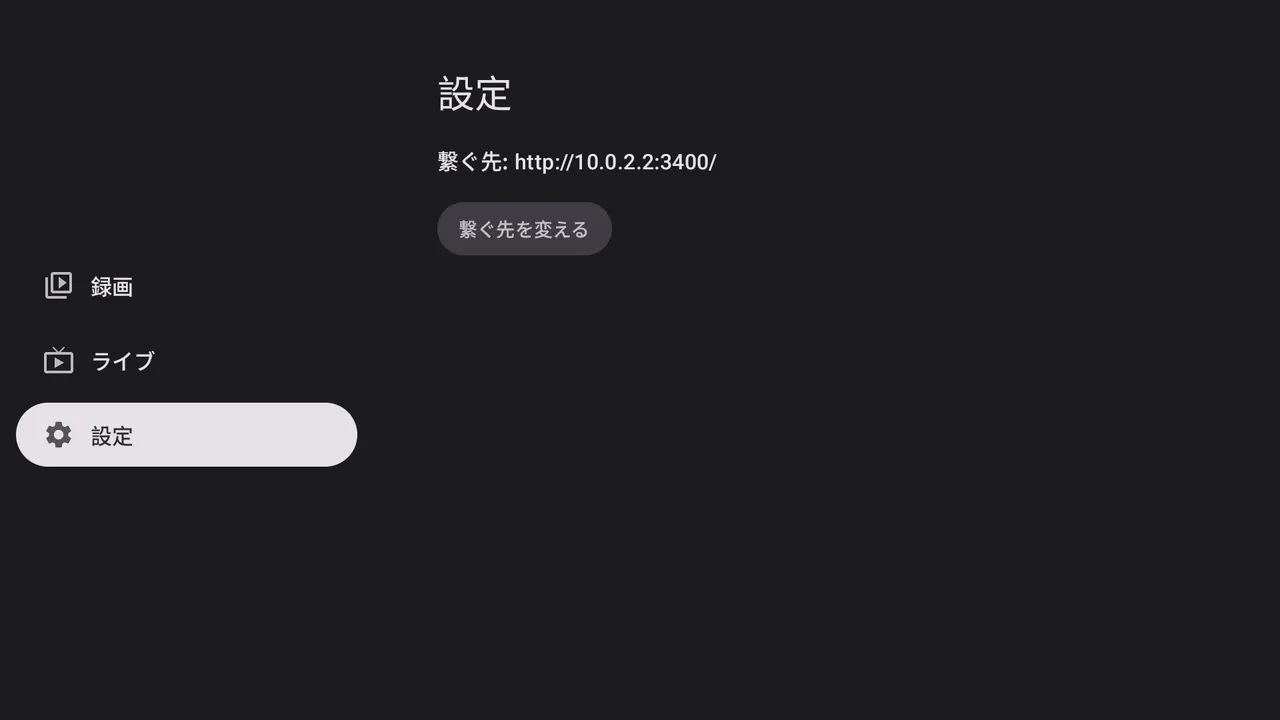
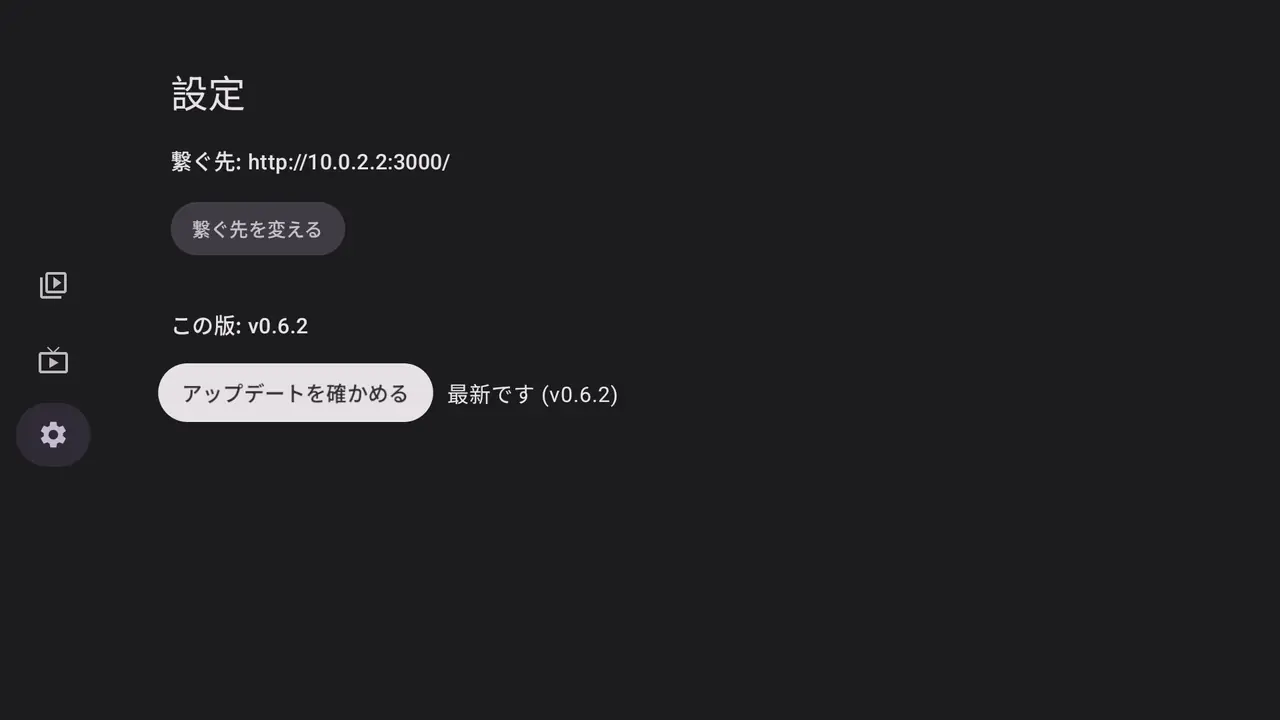
docs: 録画の一覧・詳しく・再生・終わり・追っかけ・設定の絵を今の画面で撮り直す
Claude-Session: https://claude.ai/code/session_01TG5bWNd7UBYqDbKKDsecbS

diff --git a/README.md b/README.md
@@ -9,15 +9,15 @@ Jetpack Compose for TV で書いています。
 
 | 録画 (一番下の古いものから) | **録画の詳しく** (長押し) |
 | --- | --- |
-| <img src="docs/images/recordings.webp" alt="録画の一覧。放送日ごとの見出しと、ポスター・番組名・局・放送日時・長さ・形の札のカード。途中まで観たものはポスターの下に観た割合の帯" width="420"> | <img src="docs/images/detail.webp" alt="録画の詳しく。ポスター、続きから再生と削除のボタン、局・放送日時・長さ・形、番組の説明と出演者" width="420"> |
+| <img src="docs/images/recordings.webp" alt="録画の一覧。放送日ごとの見出しと、ポスター・番組名・局・放送日時・長さ・形の札のカード。録っている最中のものは「録画中」、焼いている最中のものは「エンコード中 42%」の札。途中まで観たものはポスターの下に観た割合の帯" width="420"> | <img src="docs/images/detail.webp" alt="録画の詳しく。ポスター、続きから再生と削除のボタン、局・放送日時・長さ・形、番組の説明と出演者" width="420"> |
 | **録画の再生** (下キーでシークバーと操作の列) | **最後まで観たとき** |
-| <img src="docs/images/player-bar.webp" alt="録画の再生。下の端に小さく、番組名と位置、CM を色分けしたシークバー、操作の札: 一時停止・前のチャプター・次のチャプター・速さ・CM 飛ばし・字幕・削除" width="420"> | <img src="docs/images/ended.webp" alt="録画の再生の終わり。下に「最後まで観ました」と、一覧に戻る・削除" width="420"> |
+| <img src="docs/images/player-bar.webp" alt="録画の再生。下の端に小さく、番組名と位置、CM を色分けしたシークバー、操作の札: 一時停止・前のチャプター・次のチャプター・速さ・CM 飛ばし・字幕・音声 (右に削除が続く)" width="420"> | <img src="docs/images/ended.webp" alt="録画の再生の終わり。下に「最後まで観ました」と、一覧に戻る・削除 (削除に合っている)" width="420"> |
 | **ライブ** | **ライブのメニュー** (決定・左右) |
 | <img src="docs/images/live.webp" alt="ライブ。局を替えると、下の端に局と番組名と残り時間、番組の進みが数秒出る" width="420"> | <img src="docs/images/live-menu.webp" alt="ライブの下の端に、局と番組・番組の進み、操作の札 (画質 H.264・録画)、その下に地上波の局の列が覗き、次の BS の列の頭が見える" width="420"> |
 | **局の列** (メニューで下キー) | **局を替えている間** (長くかかったとき) |
 | <img src="docs/images/live-channels.webp" alt="局の列。地上波の局の札が横に並び、合わせたフジテレビの札に「録画中」の印と番組名" width="420"> | <img src="docs/images/live-tuning.webp" alt="前の局の絵のまま、真ん中に回るものと「選局しています」。下に替えた先の局と番組" width="420"> |
 | **追っかけ再生** (録画中の録画) | **設定** |
-| <img src="docs/images/chase.webp" alt="追っかけ再生。下の端に「録画中」と番組名、位置と録れたところまでの長さ、シークバー、操作の札: 一時停止・最新・速さ・画質" width="420"> | <img src="docs/images/settings.webp" alt="設定。左のメニューが開いていて、繋ぐ先と繋ぐ先を変える" width="420"> |
+| <img src="docs/images/chase.webp" alt="追っかけ再生。下の端に「録画中」と番組名、位置と録れたところまでの長さ、シークバー、操作の札: 一時停止・最新・速さ・画質" width="420"> | <img src="docs/images/settings.webp" alt="設定。繋ぐ先と繋ぐ先を変える、この版と「アップデートを確かめる」(押すと「最新です」)" width="420"> |
 | **繋ぐ** | |
 | <img src="docs/images/setup.webp" alt="繋ぐ画面。スマホで読む QR と手順" width="420"> | |
 
